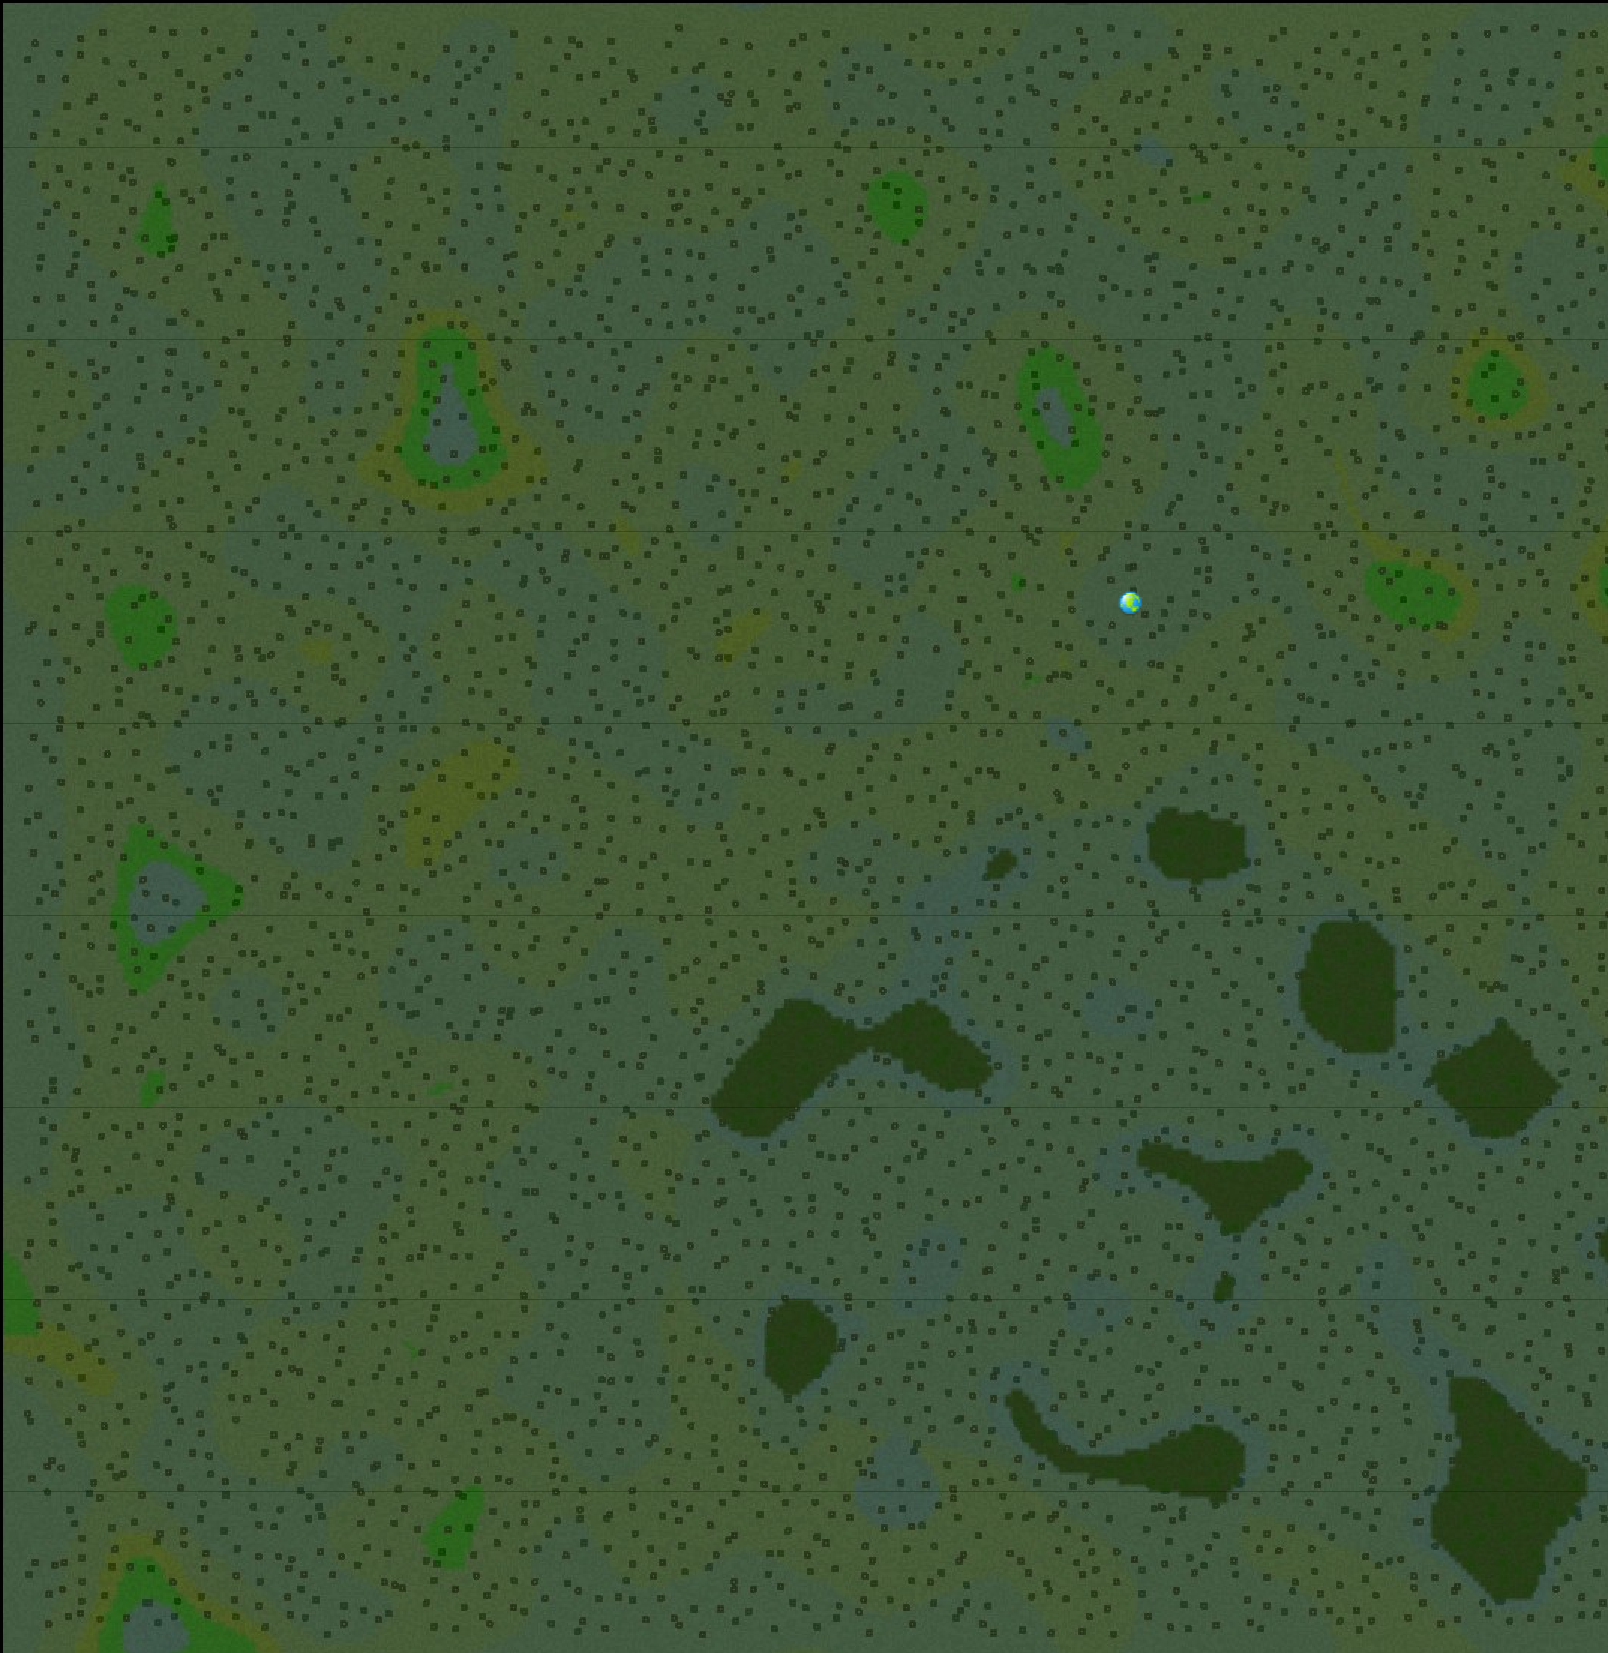
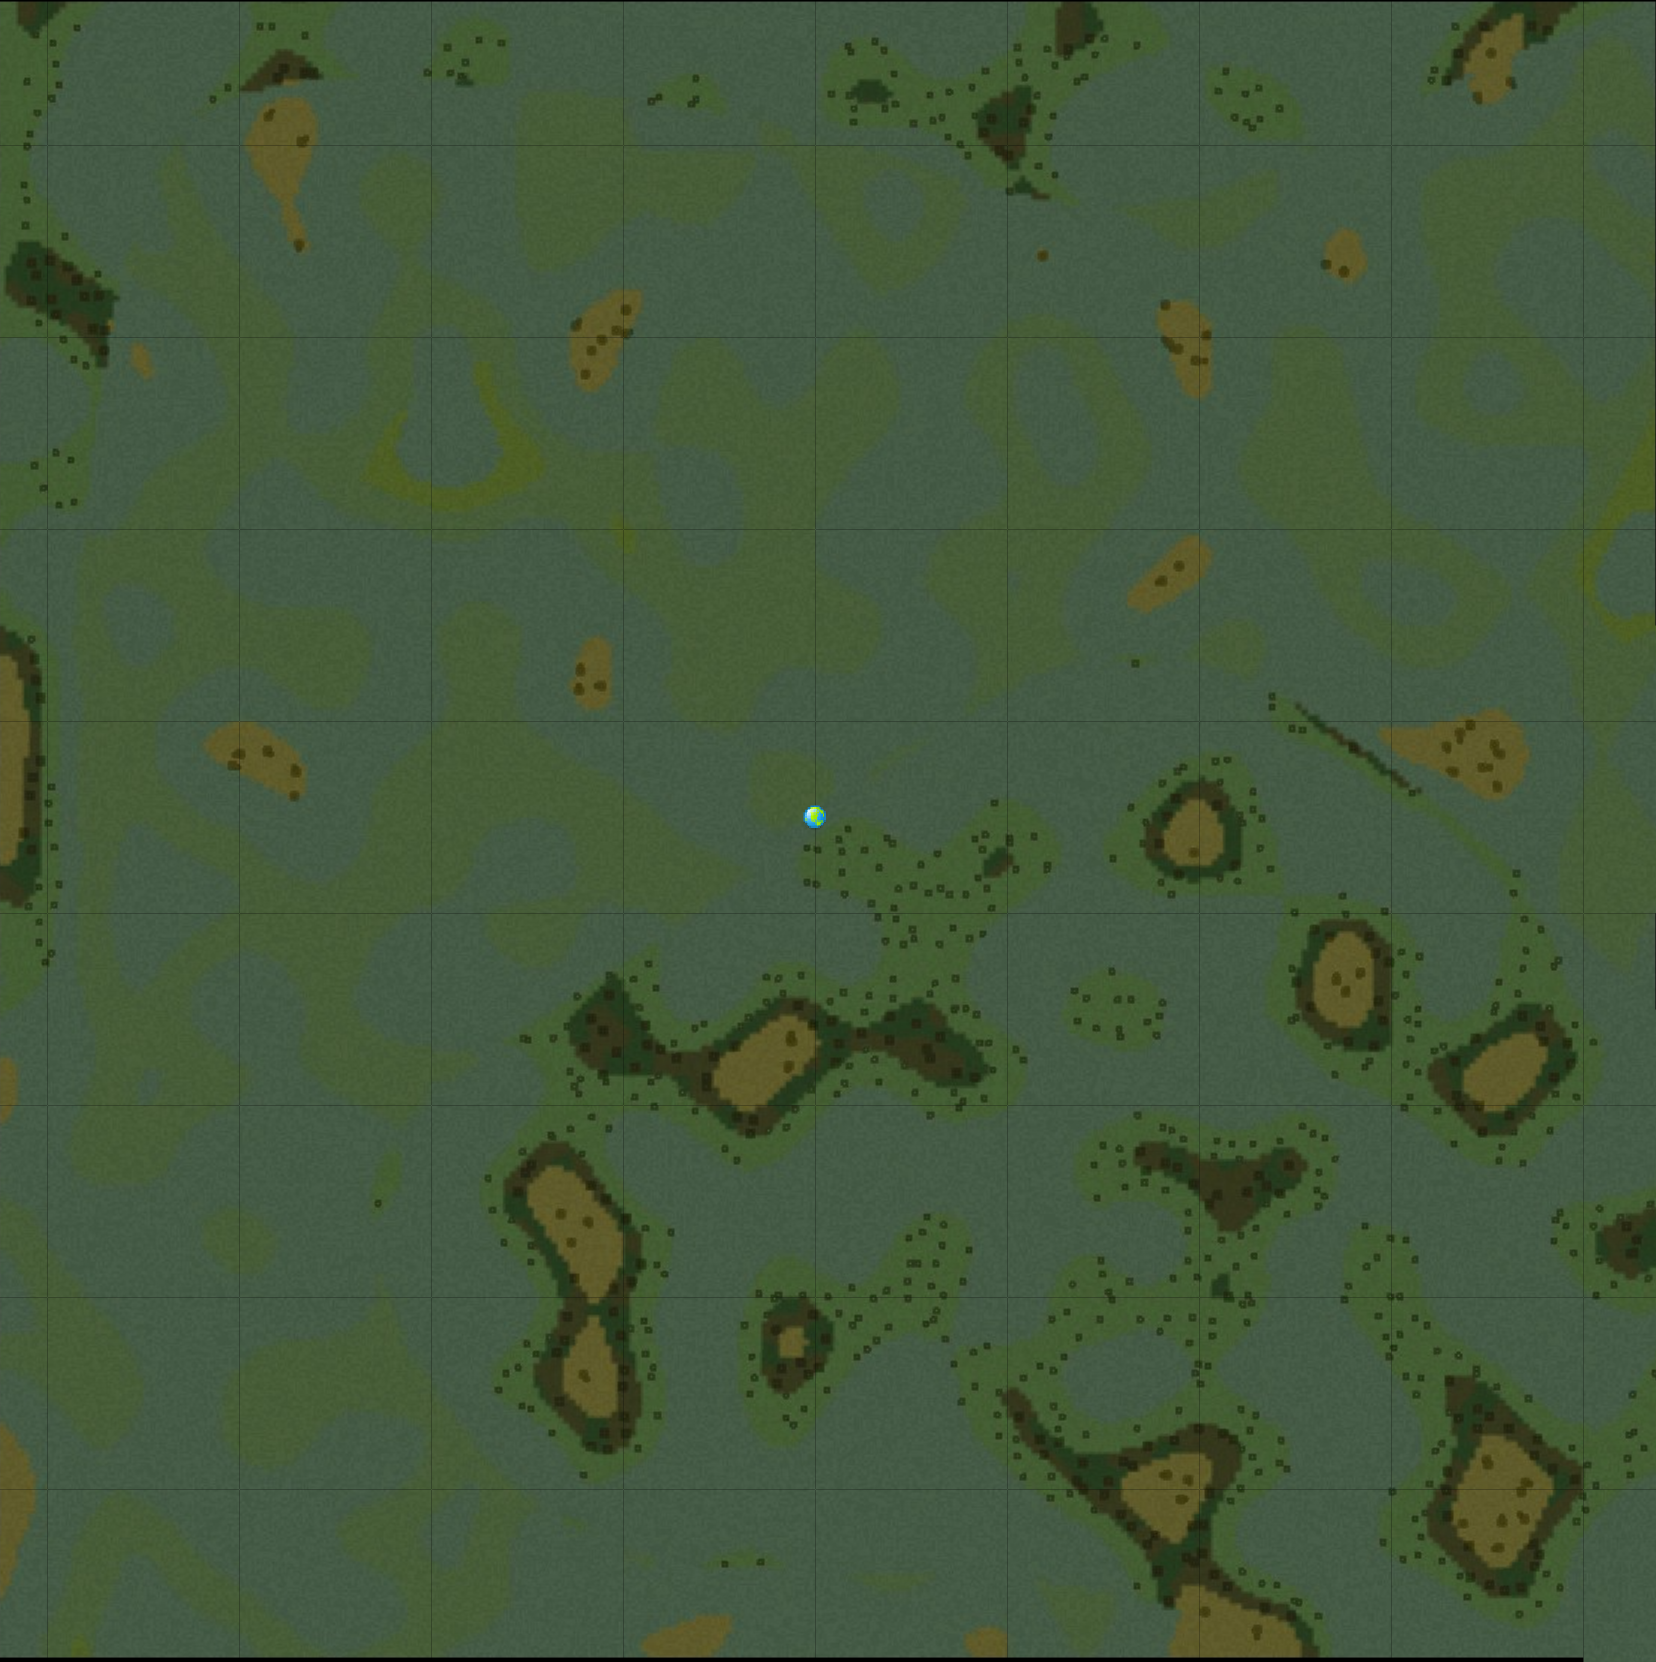
Add relevant map for tree generation

diff --git a/src/main/java/com/sereneoasis/level/world/noise/NoiseMaster.java b/src/main/java/com/sereneoasis/level/world/noise/NoiseMaster.java
@@ -13,13 +13,22 @@ import java.util.List;
 public class NoiseMaster {
 
     public NoiseMaster(){
-        new GenerationNoise(0.00001f, 1, NoiseTypes.CONTINENTALNESS);
+        boolean isTest = true;
 
-//        new GenerationNoise(0.01f, 3, NoiseTypes.CONTINENTALNESS);
-        new GenerationNoise(0.0001f, 1, NoiseTypes.TEMPERATURE);
-        new GenerationNoise(0.0001f, 1, NoiseTypes.HUMIDITY);
+        if (isTest){
+            new GenerationNoise(0.001f, 1, NoiseTypes.CONTINENTALNESS);
+            new GenerationNoise(0.01f, 1, NoiseTypes.TEMPERATURE);
+            new GenerationNoise(0.01f, 1, NoiseTypes.HUMIDITY);
 
-        new GenerationNoise(0.001f, 2, NoiseTypes.DETAIl);
+            new GenerationNoise(0.1f, 2, NoiseTypes.DETAIl);
+        } else {
+            new GenerationNoise(0.00001f, 1, NoiseTypes.CONTINENTALNESS);
+            new GenerationNoise(0.0001f, 1, NoiseTypes.TEMPERATURE);
+            new GenerationNoise(0.0001f, 1, NoiseTypes.HUMIDITY);
+
+            new GenerationNoise(0.001f, 2, NoiseTypes.DETAIl);
+        }
+
     }
 
     public static float getMasterNoise(int chunkX, int chunkZ, int x, int z){
